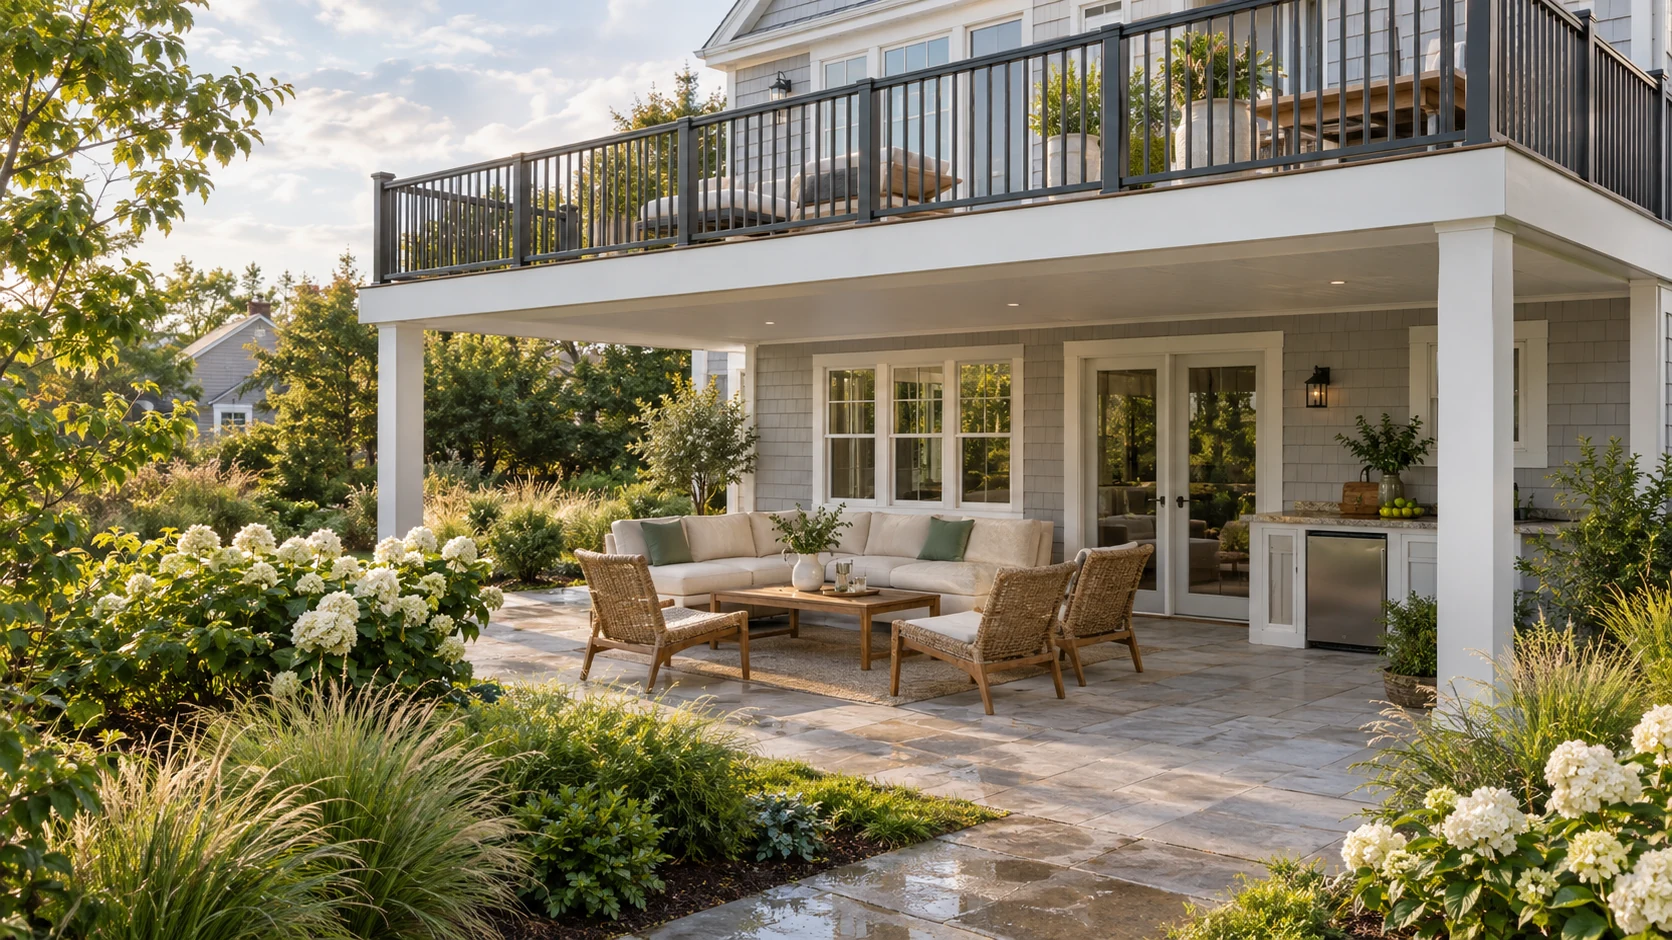
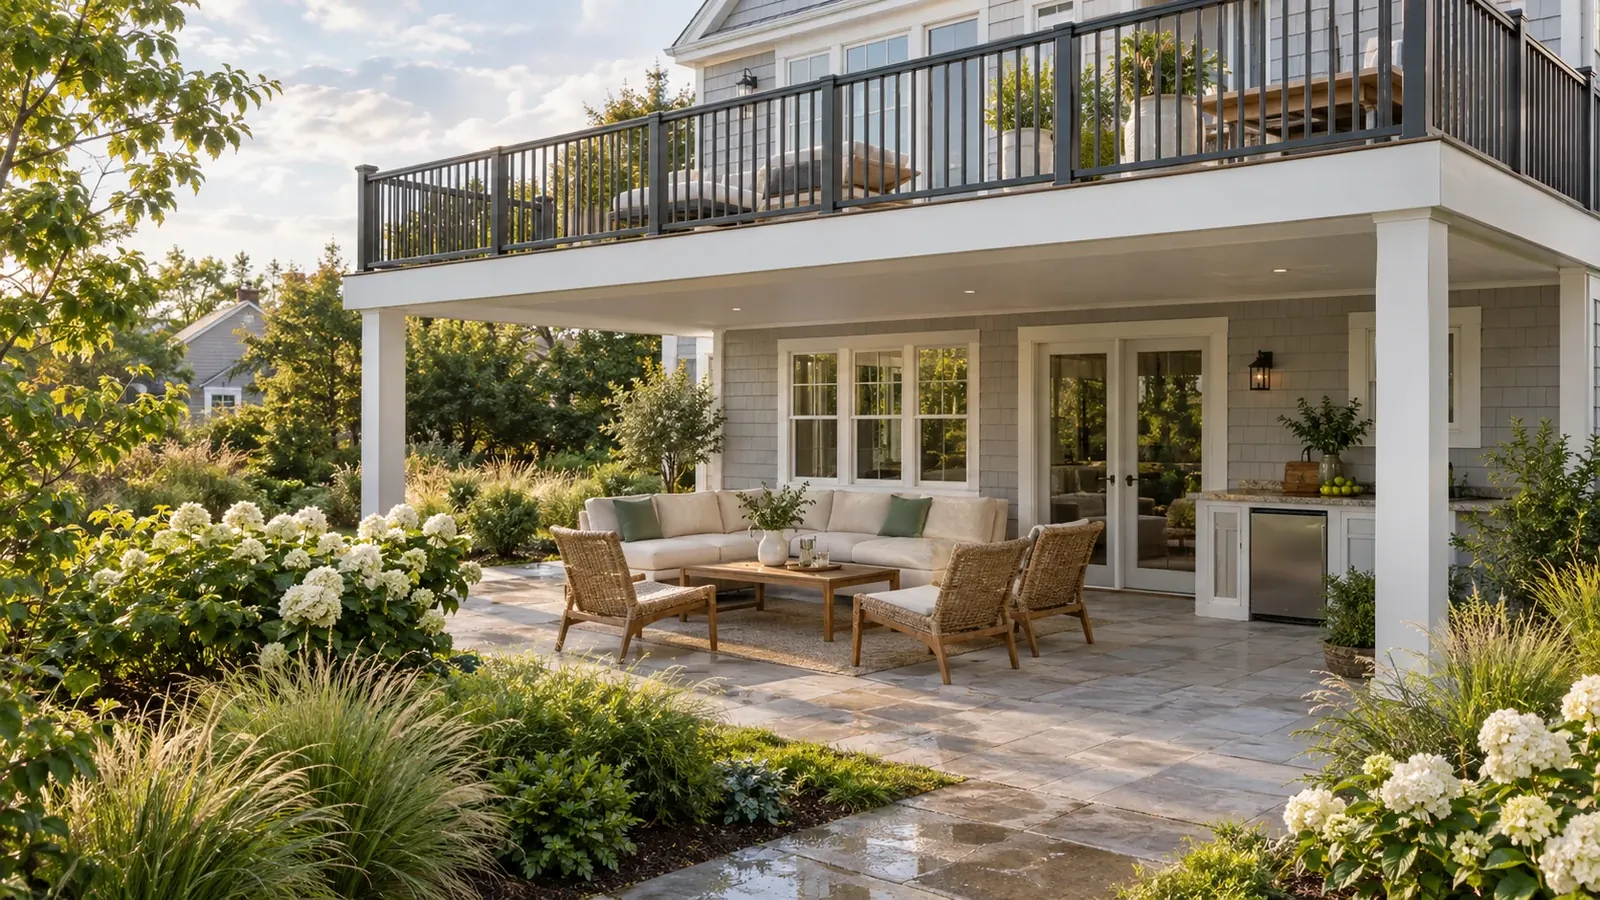
Page speed: compress oversized images (hero.jpg 960KB to 354KB at 1920px, waterproof decking hero webp, gallery overview, PVC vs composite core), swap 2MB PNG fallbacks for JPGs on become-a-dealer and under-deck living space post, add width/height to dealer joint image, sync _build.py

diff --git a/blog/under-deck-living-space-ideas.html b/blog/under-deck-living-space-ideas.html
@@ -168,7 +168,7 @@
 <h3 class="blog-step-head">A covered outdoor kitchen</h3>
 <div class="blog-step-body">
 <p>A dry ceiling is the difference between a grill that lives under a tarp and a real outdoor kitchen. With the framing overhead kept dry, you can run electrical, gas, and even recessed lighting up into the joist bays without worrying about water dripping on the cook or the cabinetry. Stone countertops, a built-in grill, and a small fridge turn the under-deck zone into the spot everyone gathers in summer.</p>
-<picture style="display:contents"><source srcset="../assets/img/lifestyle/outdoor-kitchen.webp" style="display:none" type="image/webp"/><img alt="Covered outdoor kitchen under a deck, usable in the rain" loading="lazy" src="../assets/img/lifestyle/outdoor-kitchen.png"/></picture>
+<picture style="display:contents"><source srcset="../assets/img/lifestyle/outdoor-kitchen.webp" style="display:none" type="image/webp"/><img alt="Covered outdoor kitchen under a deck, usable in the rain" loading="lazy" src="../assets/img/lifestyle/outdoor-kitchen.jpg"/></picture>
 </div>
 </div>
 <div class="blog-step idea">
@@ -176,7 +176,7 @@
 <h3 class="blog-step-head">A shaded lounge and dining area</h3>
 <div class="blog-step-body">
 <p>Not every region needs more sun. A covered, dry area under the deck stays ten to fifteen degrees cooler than the open deck above on a hot afternoon, which makes it the natural place for a sectional, a coffee table, and a dining set. Because the AmeriDex system keeps water off the underside, you can finish the ceiling with beadboard or tongue-and-groove and add a ceiling fan, the same as you would on a covered porch.</p>
-<picture style="display:contents"><source srcset="../assets/img/lifestyle/lounge-area.webp" style="display:none" type="image/webp"/><img alt="All-weather lounge area under a deck with a fire table" loading="lazy" src="../assets/img/lifestyle/lounge-area.png"/></picture>
+<picture style="display:contents"><source srcset="../assets/img/lifestyle/lounge-area.webp" style="display:none" type="image/webp"/><img alt="All-weather lounge area under a deck with a fire table" loading="lazy" src="../assets/img/lifestyle/lounge-area.jpg"/></picture>
 </div>
 </div>
 <div class="blog-step idea">
@@ -184,7 +184,7 @@
 <h3 class="blog-step-head">A kids play zone</h3>
 <div class="blog-step-body">
 <p>A dry, shaded slab is an ideal play area: out of the sun, protected from passing rain, and in clear view of the deck above. Outdoor rugs, storage bins, and a few weatherproof toys are all it takes. The key is that the surface stays dry, which only happens when the drainage layer is built into the deck itself rather than relying on a tray that can overflow in a heavy storm.</p>
-<picture style="display:contents"><source srcset="../assets/img/lifestyle/kids-play-zone.webp" style="display:none" type="image/webp"/><img alt="Dry, shaded kids play zone under a deck" loading="lazy" src="../assets/img/lifestyle/kids-play-zone.png"/></picture>
+<picture style="display:contents"><source srcset="../assets/img/lifestyle/kids-play-zone.webp" style="display:none" type="image/webp"/><img alt="Dry, shaded kids play zone under a deck" loading="lazy" src="../assets/img/lifestyle/kids-play-zone.jpg"/></picture>
 </div>
 </div>
 <div class="blog-step idea">

diff --git a/become-a-dealer.html b/become-a-dealer.html
@@ -227,7 +227,7 @@
 </div>
 </div>
 <div class="reveal">
-<picture style="display:contents"><source srcset="assets/img/dealer-joint.webp" style="display:none" type="image/webp"/><img alt="AmeriDex cellular PVC deck boards locking onto the patented Dexerdry seal, the integrated joint that diverts water above the joists" loading="lazy" src="assets/img/dealer-joint.png" style="width:100%;height:auto;display:block;border-radius:14px;box-shadow:0 24px 60px rgba(0,0,0,0.35);"/></picture>
+<picture style="display:contents"><source srcset="assets/img/dealer-joint.webp" style="display:none" type="image/webp"/><img alt="AmeriDex cellular PVC deck boards locking onto the patented Dexerdry seal, the integrated joint that diverts water above the joists" loading="lazy" height="1254" width="1254" src="assets/img/dealer-joint.jpg" style="width:100%;height:auto;display:block;border-radius:14px;box-shadow:0 24px 60px rgba(0,0,0,0.35);"/></picture>
 <p style="color:rgba(255,255,255,0.65);font-size:0.9rem;margin-top:0.85rem;line-height:1.5;">The cellular PVC board locks onto the patented Dexerdry seal, the integrated joint that diverts water above the joists.</p>
 </div>
 </div>

diff --git a/waterproof-decking.html b/waterproof-decking.html
@@ -123,7 +123,7 @@
 <section aria-label="Under-deck living inspiration" class="bg-white" style="padding:2.5rem 0 0;">
 <div class="container" style="max-width:1100px;">
 <figure style="margin:0;">
-<img alt="Lifestyle illustration of a coastal home with an elevated deck above a furnished patio lounge and landscaped garden" decoding="async" fetchpriority="high" height="940" src="assets/img/lifestyle/waterproof-decking-patio.webp" style="display:block;width:100%;height:auto;border-radius:0.5rem;" width="1672"/>
+<img alt="Lifestyle illustration of a coastal home with an elevated deck above a furnished patio lounge and landscaped garden" decoding="async" fetchpriority="high" height="900" src="assets/img/lifestyle/waterproof-decking-patio.webp" style="display:block;width:100%;height:auto;border-radius:0.5rem;" width="1600"/>
 <figcaption style="margin-top:1rem;color:var(--navy);font-size:1rem;line-height:1.6;"><strong>More room for the moments that matter.</strong> Plan a place to lounge, dine, and gather beneath your deck.<span style="display:block;margin-top:0.35rem;font-size:0.8rem;color:#555;">Lifestyle illustration.</span></figcaption>
 </figure>
 </div>

diff --git a/_build.py b/_build.py
@@ -766,13 +766,13 @@ def page_index():
       </div>
       <div class="lifestyle-grid">
         <div class="lifestyle-card reveal">
-          <img src="assets/img/lifestyle/outdoor-kitchen.png" alt="Outdoor Kitchen: covered cooking and dining zone that stays usable in rain">
+          <img src="assets/img/lifestyle/outdoor-kitchen.jpg" alt="Outdoor Kitchen: covered cooking and dining zone that stays usable in rain">
         </div>
         <div class="lifestyle-card reveal">
-          <img src="assets/img/lifestyle/lounge-area.png" alt="Lounge Area: turn the space under your deck into an all-weather living room">
+          <img src="assets/img/lifestyle/lounge-area.jpg" alt="Lounge Area: turn the space under your deck into an all-weather living room">
         </div>
         <div class="lifestyle-card reveal">
-          <img src="assets/img/lifestyle/kids-play-zone.png" alt="Kids Play Zone: give kids a dry place to play, even when the weather does not cooperate">
+          <img src="assets/img/lifestyle/kids-play-zone.jpg" alt="Kids Play Zone: give kids a dry place to play, even when the weather does not cooperate">
         </div>
       </div>
       <div style="text-align:center;margin-top:2.25rem;" class="reveal">
